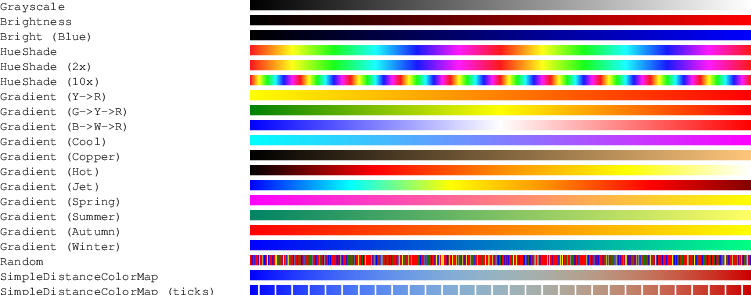
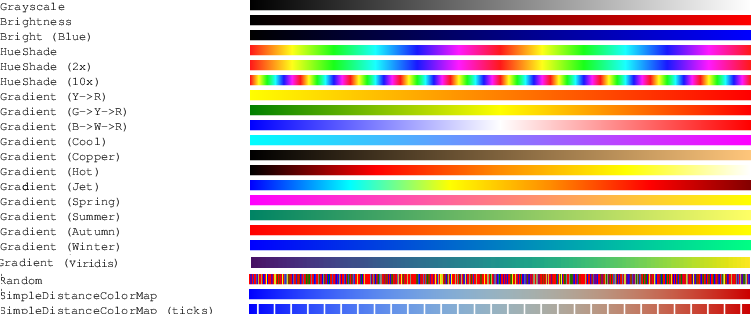
add viridis color map

diff --git a/src/DGtal/io/colormaps/GradientColorMap.h b/src/DGtal/io/colormaps/GradientColorMap.h
@@ -66,7 +66,8 @@ namespace DGtal
            CMAP_COOL,
            CMAP_COPPER,
            CMAP_HOT,
-           CMAP_JET };
+           CMAP_JET,
+           CMAP_VIRIDIS};
 
   /////////////////////////////////////////////////////////////////////////////
   // template class GradientColorMap

diff --git a/ChangeLog.md b/ChangeLog.md
@@ -35,7 +35,7 @@
   - The GenericWriter can now export in 3D ITK format (nii, mha,  mhd,  tiff).  
     (Bertrand Kerautret [#1485](https://github.com/DGtal-team/DGtal/pull/1485))
   - The GenericWriter can now use the GradientColorMap as functor to export
-    color images. (Bertrand Kerautret
+    color images. New Viridis ColorGradientPreset  (Bertrand Kerautret
     [#1487](https://github.com/DGtal-team/DGtal/pull/1487))
   
 - *Kernel package*
